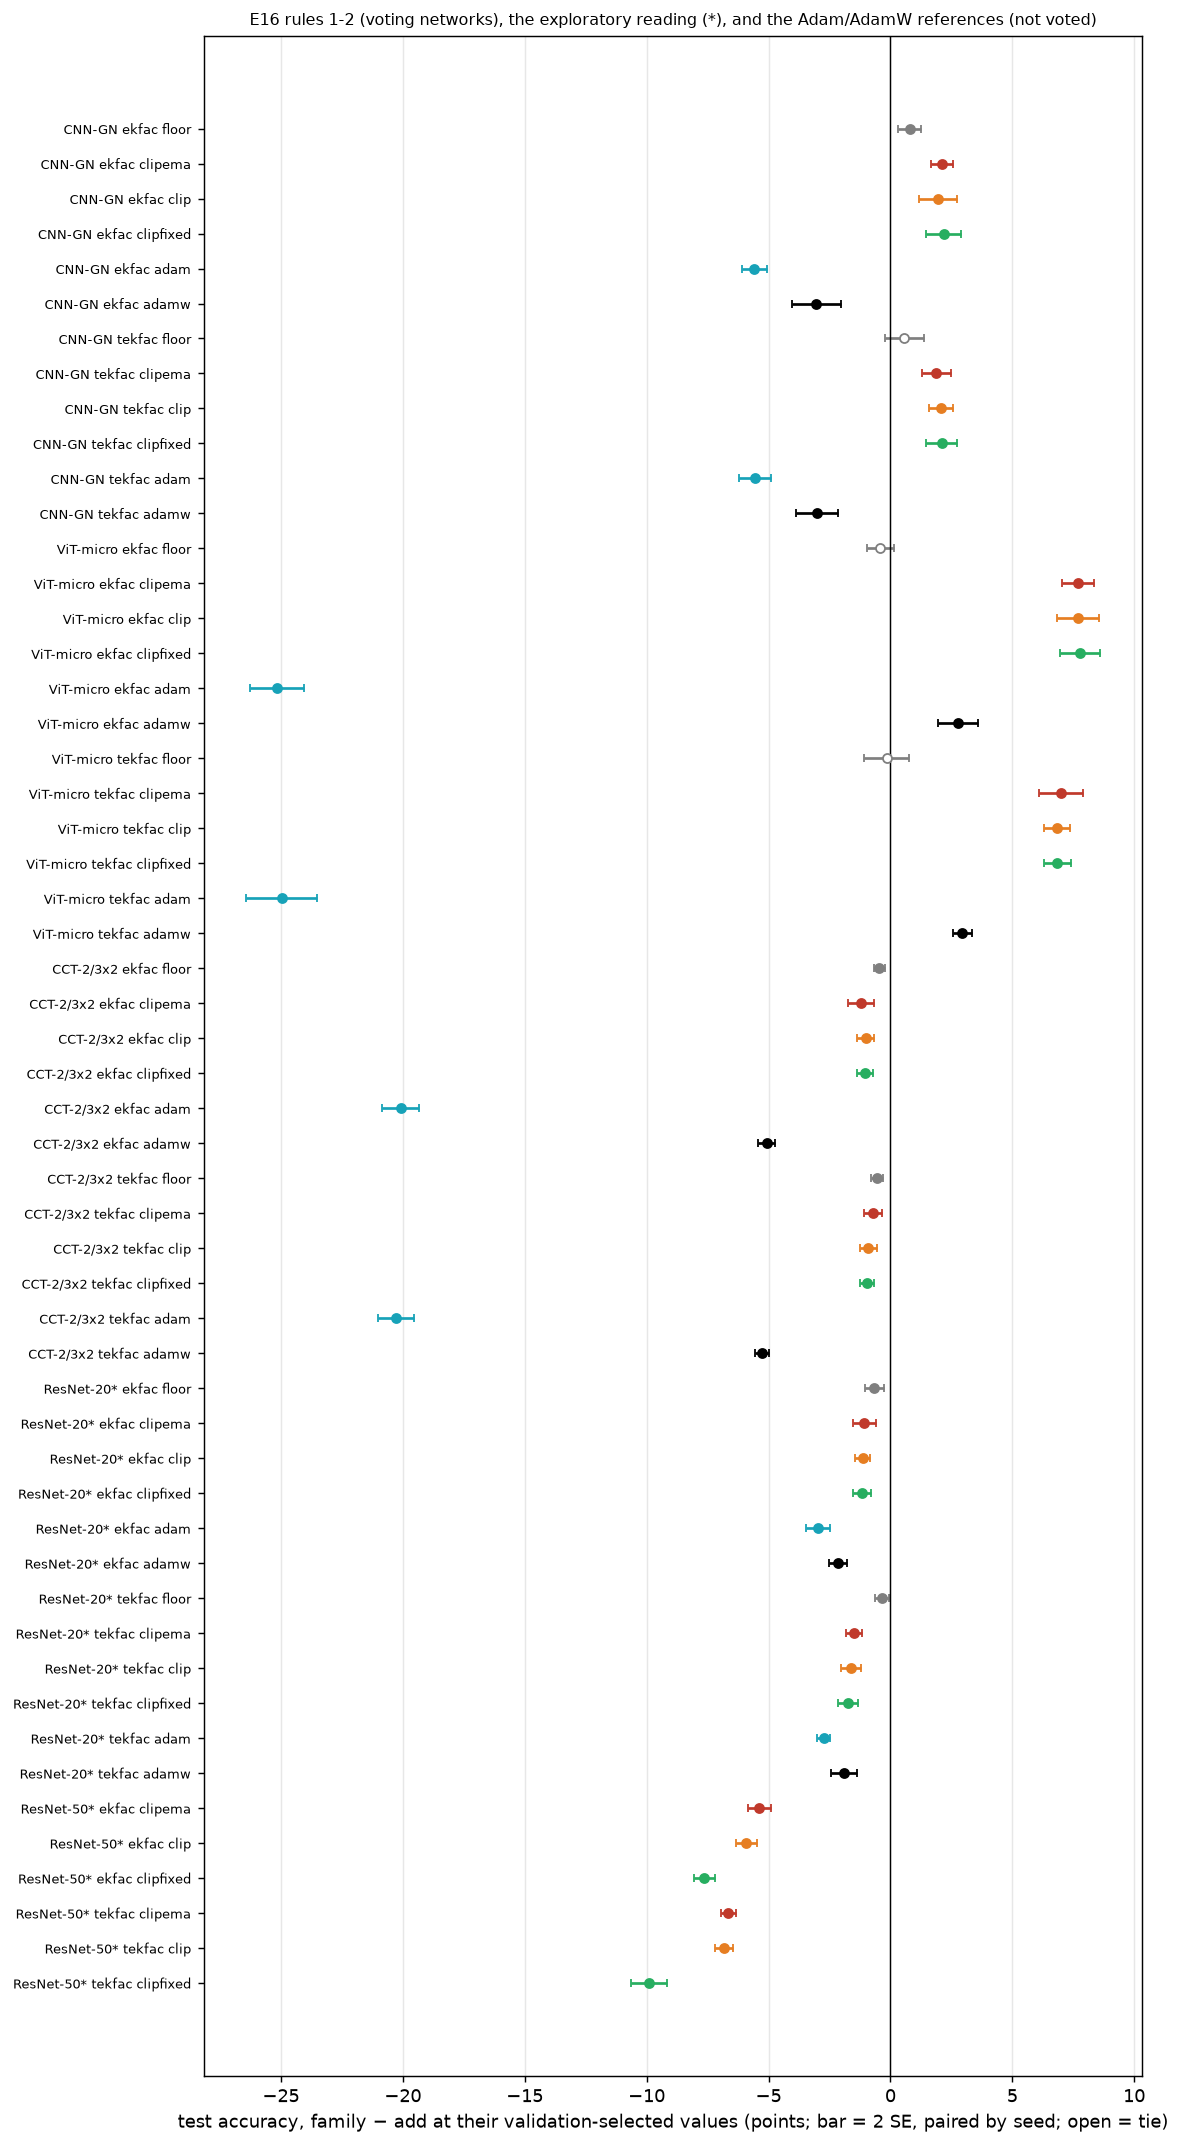
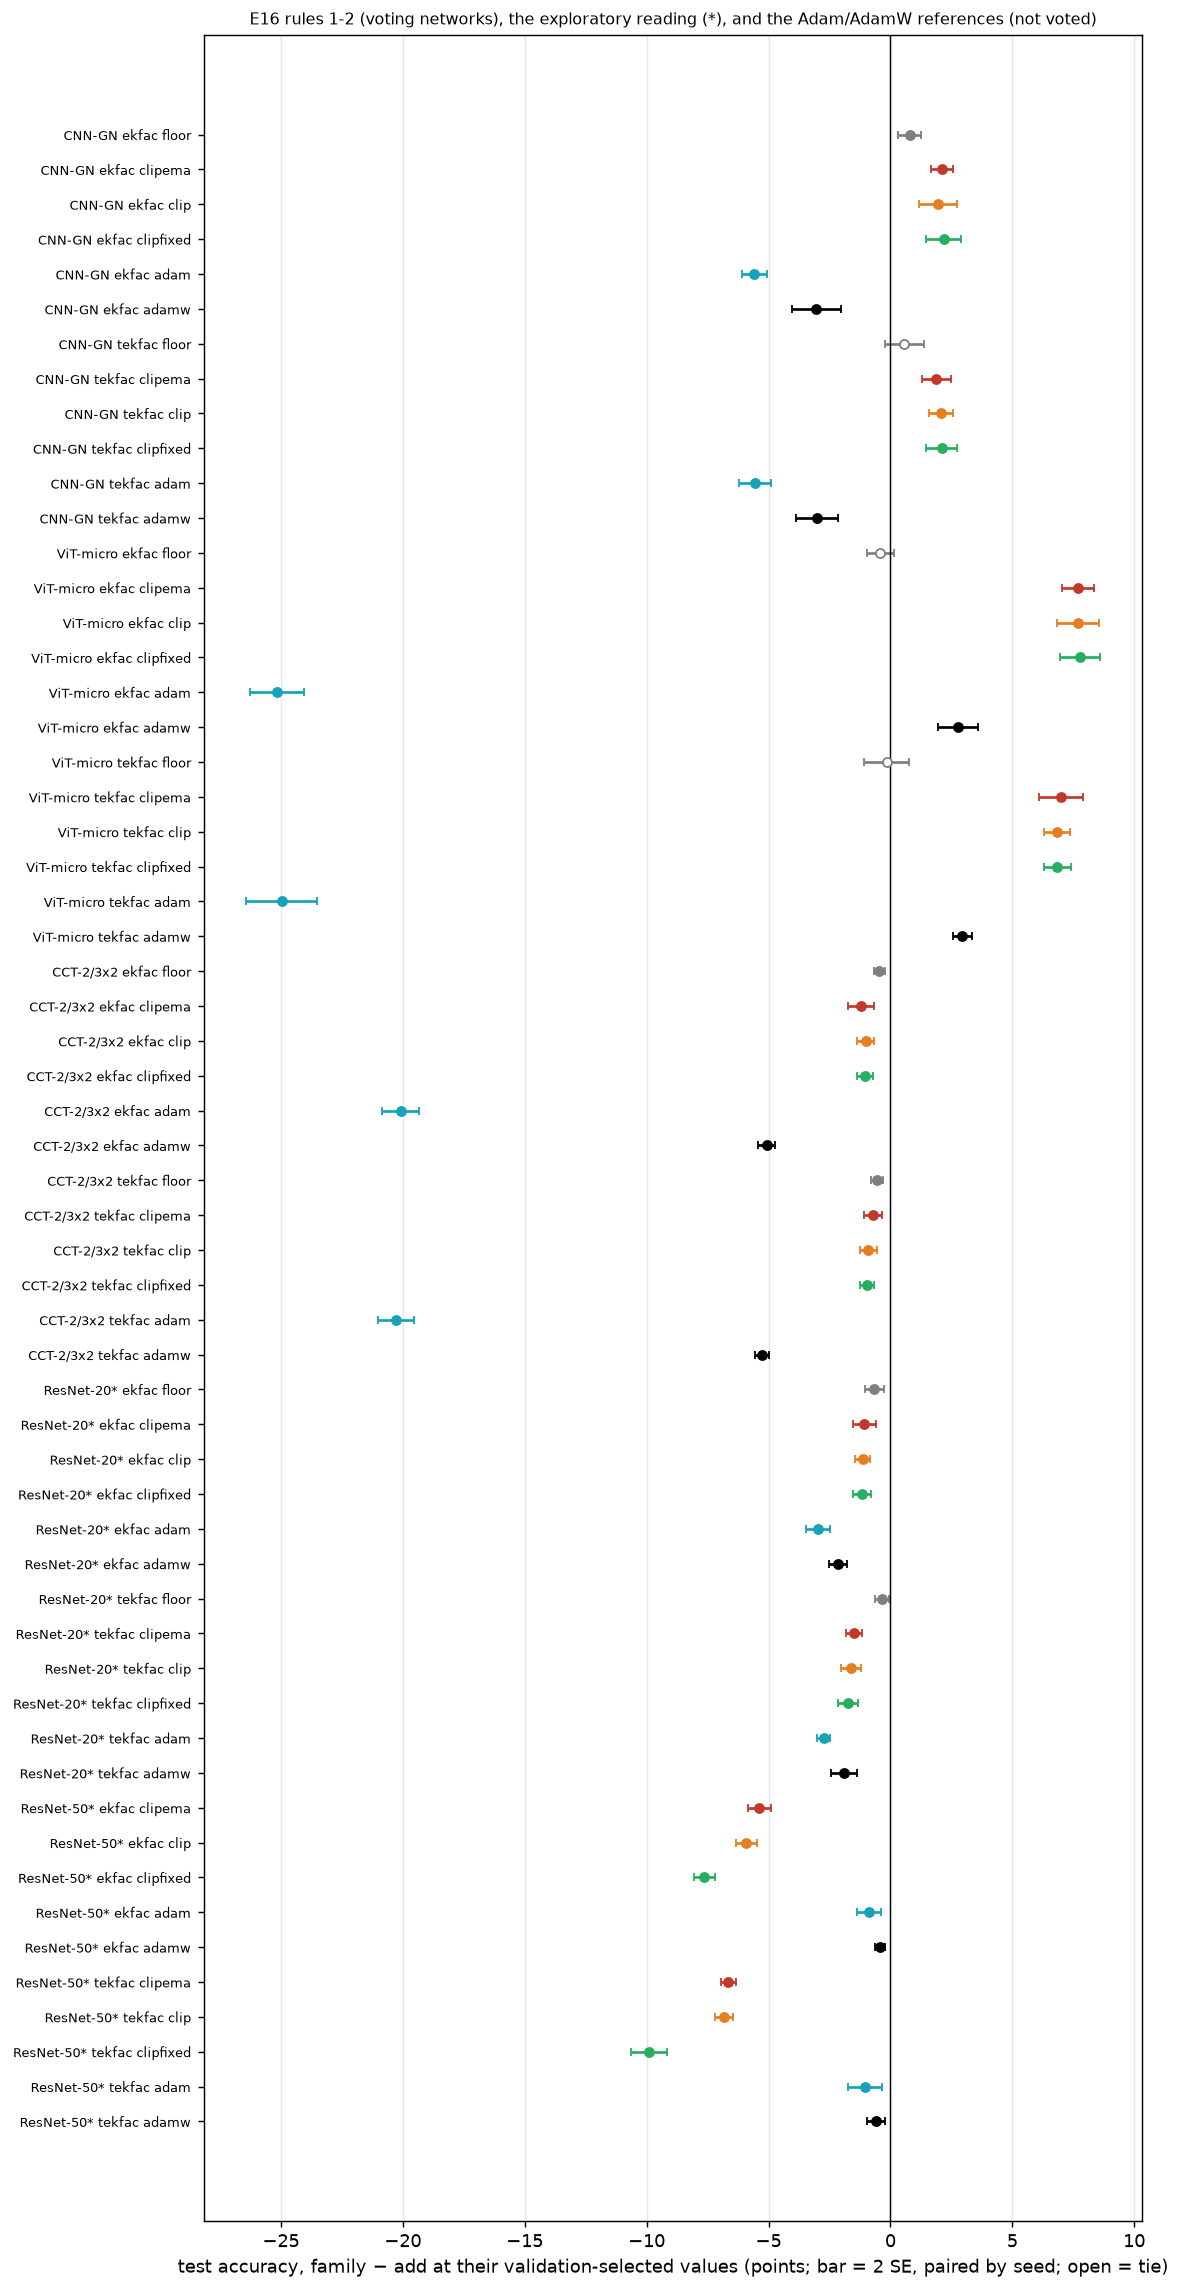
E16 baselines: ResNet-50 is best at the grid bottom, so extend downward
Both ResNet-50 baselines select x1/3 (the lowest lr run) and fall monotonically above it: Adam
89.6 -> 41.2 and AdamW 90.0 -> 78.8 from x1/3 to x30. The optimum is below the grid, so x{1/10,
1/30} is added (E16B_TAG=ext2, read as one grid with the other two files). AdamW at 90.04 is
already within 0.4 point of E16 add at its tuned lambda (90.46), which makes the location of its
optimum decide whether any Fisher arm beats AdamW on this network.

diff --git a/fisher_ref/experiments/e16_baselines.py b/fisher_ref/experiments/e16_baselines.py
@@ -17,13 +17,15 @@ One job = (network, seed, optimizer): 3 cells. Output:
 
 **Grid extension (after the first 40 jobs).** At batch 32 the selected lr was the grid's top (x3) in
 7 of 8 (network, optimizer) pairs, still rising, so the optimum was not located. A second job per
-(network, seed, optimizer) runs x{10, 30} (``E16B_FACTORS=10:30``, ``E16B_TAG=ext``) into
+(network, seed, optimizer) runs x{10, 30} (``E16B_FACTORS=10:30``, ``E16B_TAG=ext``). On ResNet-50 the opposite happened -- both
+baselines were best at the grid's *bottom* (x1/3) and fell monotonically above it -- so a third job
+runs x{1/10, 1/30} (``E16B_TAG=ext2``) into
 ``..._<optimizer>_ext.json``; the report reads both files as one grid.
 
 Environment variables::
 
     E16B_MODEL, E16B_SEED, E16B_OPT (adam | adamw)   required
-    E16B_FACTORS   ':'-separated lr factors (default: 1/3:1:3; production also allows 10:30)
+    E16B_FACTORS   ':'-separated lr factors (default: 1/3:1:3; also 10:30 and 1/10:1/30)
     E16B_TAG       file suffix, e.g. "ext" -> ..._<optimizer>_ext.json (default: none)
     E16B_DIR       output directory (default: fisher_ref/outputs)
     E16B_SMOKE     "1" allows non-production settings (WARMUP_SGD_*, E16B_TRAIN_SUBSET)
@@ -56,9 +58,9 @@ from fisher_ref.experiments.warmup_sgd_baseline import (  # noqa: E402
 
 MODELS = ("cnn_gn_cifar", "vit_micro_cifar", "cct_2_3x2_cifar", "resnet20_cifar", "resnet50_cifar")
 OPTS = ("adam", "adamw")
-ALLOWED_FACTORS = (1 / 3, 1.0, 3.0, 10.0, 30.0)
+ALLOWED_FACTORS = (1 / 30, 1 / 10, 1 / 3, 1.0, 3.0, 10.0, 30.0)
 LR_FACTORS = tuple(
-    ALLOWED_FACTORS[0] if f.strip() == "1/3" else float(f)
+    {"1/30": 1 / 30, "1/10": 1 / 10, "1/3": 1 / 3}.get(f.strip(), None) or float(f)
     # ":"-separated: sbatch --export splits its argument on commas
     for f in (os.environ.get("E16B_FACTORS") or "1/3:1:3").replace(",", ":").split(":") if f.strip())
 TAG = os.environ.get("E16B_TAG", "")

diff --git a/fisher_ref/experiments/e16_report.py b/fisher_ref/experiments/e16_report.py
@@ -66,7 +66,8 @@ def load_baselines(model: str) -> Cells:
     out: Cells = {}
     for seed in SEEDS[model]:
         for opt in BASELINES:
-            files = [DIR / f"e16b_{model}_s{seed}_{opt}{t}.json" for t in ("", "_ext")]
+            files = [DIR / f"e16b_{model}_s{seed}_{opt}{t}.json"
+                     for t in ("", "_ext", "_ext2")]
             for c in (c for f in files if f.exists()
                       for c in json.load(open(f))["cells"].values()):
                 if c.get("crashed"):

diff --git a/docs/reports/e16_vs_lambda.md b/docs/reports/e16_vs_lambda.md
@@ -20,5 +20,5 @@ Columns:
 | CCT-2/3x2 | tekfac | 72.90 ± 0.12 | 82.97 ± 0.13 (λ=3e-11) | — | 82.25 ± 0.13 (q=0.99) [82.01–82.25] | 62.69 ± 0.26 (lr=0.0003) | 77.69 ± 0.08 (lr=0.001) | +9.35 ± 0.17 **win** | -0.72 ± 0.18 **lose** | — | +4.56 ± 0.14 **win** | 〃 |
 | ResNet-20* | ekfac | 86.27 ± 0.06 | 86.84 ± 0.13 (λ=1e-11) | — | 85.77 ± 0.21 (q=0.95) [85.68–85.77] | 83.86 ± 0.16 (lr=0.001) | 84.70 ± 0.27 (lr=0.01) | -0.36 ± 0.36 **tie** (3 seeds) | -1.07 ± 0.24 **lose** | — | +1.07 ± 0.26 **win** | **campaigns 1-2** (benchmark protocol, λ=1e-3, 2 seeds): best mode **tkfac** 91.0 vs best Adam(W) 88.3: +2.7 ± 0.4; modes above Adam(W) on every seed: tkfac, kfac, diag, ekfac, tekfac (tkfac 91.0, kfac 90.9, diag 90.9, ekfac 89.7, tekfac 89.7)<br>**E14 (tuned λ, E protocol)**: best mode **kfac** (λ=1e-09); all: kfac 86.5, ekfac 86.8, tkfac 86.4, tekfac 87.0; kfac − best Adam(W): +1.64 ± 0.19 **win** (3 seeds) |
 | ResNet-20* | tekfac | 86.36 ± 0.13 | 86.60 ± 0.11 (λ=3e-11) | — | 85.10 ± 0.07 (q=0.9) [84.87–85.10] | 83.86 ± 0.16 (lr=0.001) | 84.70 ± 0.27 (lr=0.01) | -1.28 ± 0.09 **lose** (3 seeds) | -1.50 ± 0.17 **lose** | — | +0.40 ± 0.31 **tie** | 〃 |
-| ResNet-50* | ekfac | — | 90.46 ± 0.06 (λ=3e-12) | — | 85.09 ± 0.19 (q=0.7) [82.83–85.09] | — | — | — | -5.37 ± 0.24 **lose** (3 seeds) | — | — | **campaigns 1-2** (benchmark protocol, λ=1e-3, 1 seed): best mode **kfac** 94.3 vs best Adam(W) 93.0: +1.3; modes above Adam(W) on every seed: kfac, tkfac, diag, ekfac, tekfac (kfac 94.3, tkfac 94.1, diag 93.9, ekfac 93.9, tekfac 93.8) |
-| ResNet-50* | tekfac | — | 90.62 ± 0.15 (λ=3e-12) | — | 83.96 ± 0.30 (q=0.95) [80.70–83.96] | — | — | — | -6.65 ± 0.15 **lose** (3 seeds) | — | — | 〃 |
+| ResNet-50* | ekfac | — | 90.46 ± 0.06 (λ=3e-12) | — | 85.09 ± 0.19 (q=0.7) [82.83–85.09] | 89.57 ± 0.20 (lr=0.00033, **grid edge**) | 90.04 ± 0.05 (lr=0.00033, **grid edge**) | — | -5.37 ± 0.24 **lose** (3 seeds) | — | -4.95 ± 0.14 **lose** (3 seeds) | **campaigns 1-2** (benchmark protocol, λ=1e-3, 1 seed): best mode **kfac** 94.3 vs best Adam(W) 93.0: +1.3; modes above Adam(W) on every seed: kfac, tkfac, diag, ekfac, tekfac (kfac 94.3, tkfac 94.1, diag 93.9, ekfac 93.9, tekfac 93.8) |
+| ResNet-50* | tekfac | — | 90.62 ± 0.15 (λ=3e-12) | — | 83.96 ± 0.30 (q=0.95) [80.70–83.96] | 89.57 ± 0.20 (lr=0.00033, **grid edge**) | 90.04 ± 0.05 (lr=0.00033, **grid edge**) | — | -6.65 ± 0.15 **lose** (3 seeds) | — | -6.07 ± 0.33 **lose** (3 seeds) | 〃 |

diff --git a/docs/reports/e16_results_tables.md b/docs/reports/e16_results_tables.md
@@ -57,9 +57,13 @@
 | ResNet-50* | ekfac | clipema | 0.7 (add 3e-12) | -5.37 ± 0.24 | lose |
 | ResNet-50* | ekfac | clip | 0.95 (add 3e-12) | -5.91 ± 0.21 | lose |
 | ResNet-50* | ekfac | clipfixed | 0.95 (add 3e-12) | -7.63 ± 0.21 | lose |
+| ResNet-50* | ekfac | adam | 0.000333333 (add 3e-12) | -0.89 ± 0.25 | lose |
+| ResNet-50* | ekfac | adamw | 0.000333333 (add 3e-12) | -0.42 ± 0.10 | lose |
 | ResNet-50* | tekfac | clipema | 0.95 (add 3e-12) | -6.65 ± 0.15 | lose |
 | ResNet-50* | tekfac | clip | 0.7 (add 3e-12) | -6.83 ± 0.18 | lose |
 | ResNet-50* | tekfac | clipfixed | 0.95 (add 3e-12) | -9.92 ± 0.37 | lose |
+| ResNet-50* | tekfac | adam | 0.000333333 (add 3e-12) | -1.04 ± 0.35 | lose |
+| ResNet-50* | tekfac | adamw | 0.000333333 (add 3e-12) | -0.58 ± 0.19 | lose |
 
 ## CNN-GN (`cnn_gn_cifar`), every cell
 
@@ -485,6 +489,16 @@
 | clipfixed | **0.95** | 82.83 ± 0.25 | 83.28 ± 0.38 | 3 | 47.2 |
 | clipfixed | 0.7 | 76.57 ± 1.01 | 77.15 ± 1.02 | 3 | 47.7 |
 | clipfixed | 0.3 | 71.00 ± 0.11 | 71.11 ± 0.17 | 3 | 47.6 |
+| adam | 0.03 | 41.16 ± 0.57 | 40.30 ± 1.11 | 3 | 19.9 |
+| adam | 0.01 | 58.46 ± 1.09 | 58.59 ± 0.89 | 3 | 19.8 |
+| adam | 0.003 | 72.48 ± 0.17 | 72.76 ± 0.59 | 3 | 19.7 |
+| adam | 0.001 | 83.18 ± 0.17 | 83.46 ± 0.20 | 3 | 19.8 |
+| adam | **0.000333333** | 89.57 ± 0.20 | 89.93 ± 0.26 | 3 | 19.8 |
+| adamw | 0.03 | 78.80 ± 0.72 | 79.38 ± 0.76 | 3 | 19.7 |
+| adamw | 0.01 | 83.79 ± 0.69 | 83.35 ± 0.58 | 3 | 19.7 |
+| adamw | 0.003 | 85.05 ± 0.57 | 85.03 ± 0.52 | 3 | 19.7 |
+| adamw | 0.001 | 88.49 ± 0.42 | 88.51 ± 0.40 | 3 | 19.8 |
+| adamw | **0.000333333** | 90.04 ± 0.05 | 89.95 ± 0.47 | 3 | 19.8 |
 
 **tekfac**
 
@@ -504,4 +518,14 @@
 | clipfixed | **0.95** | 80.70 ± 0.50 | 81.31 ± 0.52 | 3 | 47.0 |
 | clipfixed | 0.7 | 74.89 ± 0.25 | 75.88 ± 0.15 | 3 | 47.1 |
 | clipfixed | 0.3 | 65.16 ± 1.25 | 65.43 ± 1.75 | 3 | 47.0 |
+| adam | 0.03 | 41.16 ± 0.57 | 40.30 ± 1.11 | 3 | 19.9 |
+| adam | 0.01 | 58.46 ± 1.09 | 58.59 ± 0.89 | 3 | 19.8 |
+| adam | 0.003 | 72.48 ± 0.17 | 72.76 ± 0.59 | 3 | 19.7 |
+| adam | 0.001 | 83.18 ± 0.17 | 83.46 ± 0.20 | 3 | 19.8 |
+| adam | **0.000333333** | 89.57 ± 0.20 | 89.93 ± 0.26 | 3 | 19.8 |
+| adamw | 0.03 | 78.80 ± 0.72 | 79.38 ± 0.76 | 3 | 19.7 |
+| adamw | 0.01 | 83.79 ± 0.69 | 83.35 ± 0.58 | 3 | 19.7 |
+| adamw | 0.003 | 85.05 ± 0.57 | 85.03 ± 0.52 | 3 | 19.7 |
+| adamw | 0.001 | 88.49 ± 0.42 | 88.51 ± 0.40 | 3 | 19.8 |
+| adamw | **0.000333333** | 90.04 ± 0.05 | 89.95 ± 0.47 | 3 | 19.8 |
 
